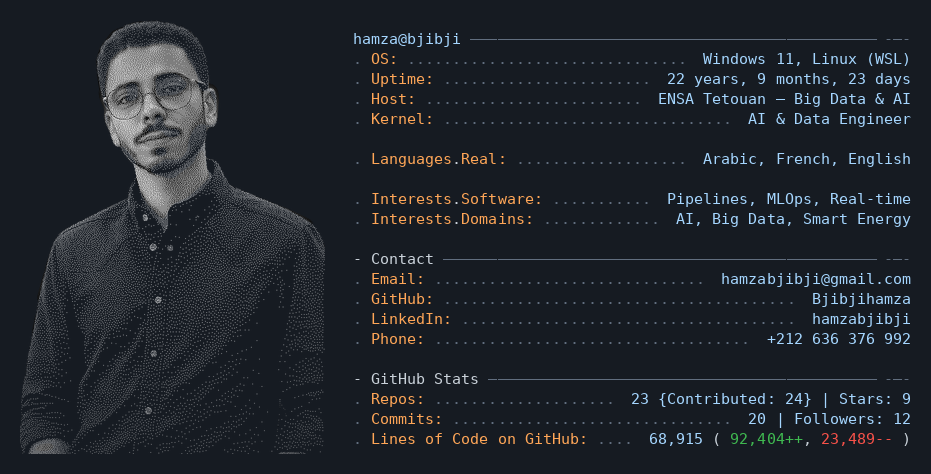
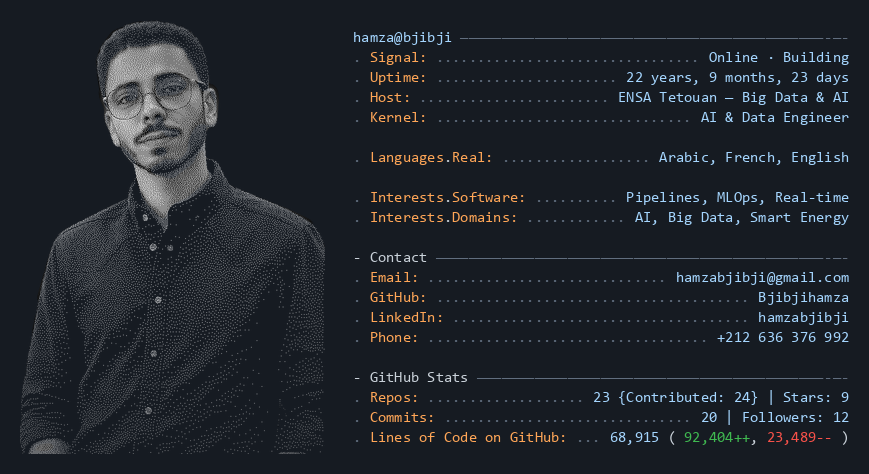
Replace OS with Signal: Online · Building on whoami card.

diff --git a/scripts/build_whoami_card.py b/scripts/build_whoami_card.py
@@ -199,7 +199,7 @@ def build_card() -> Path:
     y += lh
 
     for label, value in [
-        ("OS", "Windows 11, Linux (WSL)"),
+        ("Signal", "Online · Building"),
         ("Uptime", stats["age"]),
         ("Host", "ENSA Tetouan — Big Data & AI"),
         ("Kernel", "AI & Data Engineer"),
